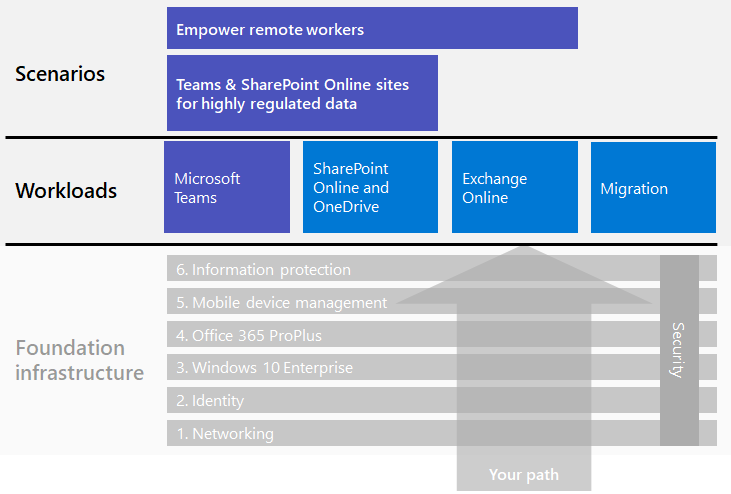
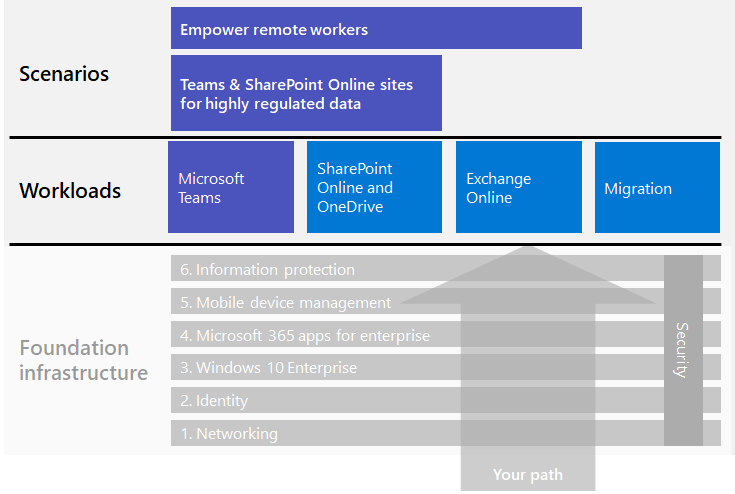
commit translated contents

diff --git a/microsoft-365/compliance/microsoft-365-compliance-center.md b/microsoft-365/compliance/microsoft-365-compliance-center.md
@@ -11,12 +11,12 @@ ms.service: o365-seccomp
 localization_priority: Normal
 description: 了解 Microsoft 365 合规性中心，包括它包含的内容、如何获取它以及后续步骤。
 ms.collection: M365-security-compliance
-ms.openlocfilehash: f3718de12666cb317cfab4d85683f9e0de6d0b1b
-ms.sourcegitcommit: 3dd9944a6070a7f35c4bc2b57df397f844c3fe79
+ms.openlocfilehash: f87fcbe2cd40b01a42d20da8e36ee4b1d7d3bbb4
+ms.sourcegitcommit: 2614f8b81b332f8dab461f4f64f3adaa6703e0d6
 ms.translationtype: MT
 ms.contentlocale: zh-CN
-ms.lasthandoff: 02/15/2020
-ms.locfileid: "42071493"
+ms.lasthandoff: 04/21/2020
+ms.locfileid: "43637954"
 ---
 # <a name="microsoft-365-compliance-center"></a>Microsoft 365 合规中心
 
@@ -62,7 +62,7 @@ ms.locfileid: "42071493"
 
 |  |  |
 |---------|---------|
-|![Microsoft 365 合规性中心中的导航](../media/m365-compliance-center-leftnav.png)  | 选择 "**主页**" 以返回 Microsoft 365 合规性中心主页。 <br><br> 选择 "**数据分类**" 部分，以访问[trainable 分类](classifier-getting-started-with.md)器、[敏感信息类型](what-the-sensitive-information-types-look-for.md)、内容和[活动](data-classification-activity-explorer.md)浏览器。 <br/><br/> 选择 "**数据连接器**" 以配置在 Microsoft 365 订阅中导入和存档数据的[连接器](archiving-third-party-data.md)。 <br><br> 转到 "**通知**" 以查看和解决[通知](alert-policies.md) <br/><br/>访问**报告**以查看有关[标签使用和保留](sensitivity-labels.md)的数据[、DLP 策略匹配和替代](view-the-dlp-reports.md)、[共享文件](https://docs.microsoft.com/cloud-app-security/file-filters)、[使用中的第三方应用程序](https://docs.microsoft.com/cloud-app-security/discovered-apps)等。 <br/><br/> 转到 "**策略**" 以设置用于控制数据、管理设备和接收[通知](../security/office-365-security/alerts.md)的策略。 您还可以访问您的[DLP](data-loss-prevention-policies.md)和[保留](retention-policies.md)策略。<br/><br/> 选择管理组织中的哪些用户有权访问 Microsoft 365 合规性中心以查看内容和完成任务的**权限**。 <br/><br/> 使用 "**解决方案**" 部分中的链接可访问组织的合规性解决方案。 具体包括： <br/><br/> [Catalog](microsoft-365-solution-catalog.md) <br> 发现、了解并开始使用适用于您的组织的智能合规性和风险管理解决方案。 <br/><br/> [跟踪](search-the-audit-log-in-security-and-compliance.md) <br> 使用审核日志调查常见支持和合规性问题。 <br/><br/> [内容搜索](search-for-content.md) <br> 使用内容搜索在 Exchange 邮箱、SharePoint 网站中的文档和 OneDrive 位置以及 Microsoft 团队和 Skype for business 中的即时消息对话中快速查找电子邮件。 <br/><br/> [沟通合规性](communication-compliance.md) <br> 通过自动捕获不适当的邮件、调查可能的策略违规和采取补救措施来最大限度地减少通信风险。 <br/><br/> [数据调查](overview-data-investigations.md) <br/> 跨内容位置搜索以识别 Microsoft 365 中的敏感数据、恶意数据或误放数据，以便您可以调查和修正任何事件，如 data 外泄。 <br/><br/> [数据丢失保护](data-loss-prevention-policies.md) <br> 检测在整个组织、云中和设备中使用和共享的敏感内容，并帮助防止意外的数据丢失。 <br/><br/> [数据主体请求](manage-gdpr-data-subject-requests-with-the-dsr-case-tool.md) <br> 查找和导出用户的个人数据，以帮助您响应常规数据保护法规（GDPR）的数据主体请求。 <br/><br/> [电子数据展示](overview-ediscovery-20.md) <br> 展开此部分可使用核心和高级电子数据展示来保留、收集、检查、分析和导出对组织内部和外部调查做出响应的内容。 <br/><br/> [信息治理](manage-information-governance.md) <br> 使用用于导入、存储和分类业务关键数据的功能管理内容生命周期，以便您可以保留所需的内容并删除不需要的内容。 <br/><br/> [信息保护](protect-information.md) <br> 跨组织的整个生命周期发现、分类和保护敏感和业务关键型内容。 <br/><br/> [内幕风险管理](insider-risk-management.md) <br> 检测整个组织中有风险的活动，以帮助您快速识别、调查和采取对内幕风险和威胁的操作。 <br/><br/> [记录管理](records-management.md) <br> 自动化并简化组织中的法规、法律和业务关键型记录的保留计划。
+|![Microsoft 365 合规性中心中的导航](../media/m365-compliance-center-leftnav.png)  | 选择 "**主页**" 以返回 Microsoft 365 合规性中心主页。 <br><br> 选择 "**数据分类**" 部分，以访问[trainable 分类](classifier-getting-started-with.md)器、[敏感信息类型](what-the-sensitive-information-types-look-for.md)、内容和[活动](data-classification-activity-explorer.md)浏览器。 <br/><br/> 选择 "**数据连接器**" 以配置在 Microsoft 365 订阅中导入和存档数据的[连接器](archiving-third-party-data.md)。 <br><br> 转到 "**通知**" 以查看和解决[通知](alert-policies.md) <br/><br/>访问**报告**以查看有关[标签使用和保留](sensitivity-labels.md)的数据[、DLP 策略匹配和替代](view-the-dlp-reports.md)、[共享文件](https://docs.microsoft.com/cloud-app-security/file-filters)、[使用中的第三方应用程序](https://docs.microsoft.com/cloud-app-security/discovered-apps)等。 <br/><br/> 转到 "**策略**" 以设置用于控制数据、管理设备和接收[通知](../security/office-365-security/alerts.md)的策略。 您还可以访问您的[DLP](data-loss-prevention-policies.md)和[保留](retention-policies.md)策略。<br/><br/> 选择管理组织中的哪些用户有权访问 Microsoft 365 合规性中心以查看内容和完成任务的**权限**。 <br/><br/> 使用 "**解决方案**" 部分中的链接可访问组织的合规性解决方案。 具体包括： <br/><br/> [Catalog](microsoft-365-solution-catalog.md) <br> 发现、了解并开始使用适用于您的组织的智能合规性和风险管理解决方案。 <br/><br/> [跟踪](search-the-audit-log-in-security-and-compliance.md) <br> 使用审核日志调查常见支持和合规性问题。 <br/><br/> [内容搜索](search-for-content.md) <br> 使用内容搜索在 Exchange 邮箱、SharePoint 网站中的文档和 OneDrive 位置以及 Microsoft 团队和 Skype for business 中的即时消息对话中快速查找电子邮件。 <br/><br/> [通信合规性](communication-compliance.md) <br> 通过自动捕获不适当的邮件、调查可能的策略违规和采取补救措施来最大限度地减少通信风险。 <br/><br/> [数据调查](overview-data-investigations.md) <br/> 跨内容位置搜索以识别 Microsoft 365 中的敏感数据、恶意数据或误放数据，以便您可以调查和修正任何事件，如 data 外泄。 <br/><br/> [数据丢失保护](data-loss-prevention-policies.md) <br> 检测在整个组织、云中和设备中使用和共享的敏感内容，并帮助防止意外的数据丢失。 <br/><br/> [数据主体请求](manage-gdpr-data-subject-requests-with-the-dsr-case-tool.md) <br> 查找和导出用户的个人数据，以帮助您响应常规数据保护法规（GDPR）的数据主体请求。 <br/><br/> [电子数据展示](overview-ediscovery-20.md) <br> 展开此部分可使用核心和高级电子数据展示来保留、收集、检查、分析和导出对组织内部和外部调查做出响应的内容。 <br/><br/> [信息治理](manage-information-governance.md) <br> 使用用于导入、存储和分类业务关键数据的功能管理内容生命周期，以便您可以保留所需的内容并删除不需要的内容。 <br/><br/> [信息保护](protect-information.md) <br> 跨组织的整个生命周期发现、分类和保护敏感和业务关键型内容。 <br/><br/> [内幕风险管理](insider-risk-management.md) <br> 检测整个组织中有风险的活动，以帮助您快速识别、调查和采取对内幕风险和威胁的操作。 <br/><br/> [记录管理](records-management.md) <br> 自动化并简化组织中的法规、法律和业务关键型记录的保留计划。
 
 ## <a name="how-do-i-get-the-compliance-center"></a>如何获取合规性中心？
 
@@ -72,9 +72,9 @@ ms.locfileid: "42071493"
 
 ## <a name="frequently-asked-questions"></a>常见问题解答
 
-**为什么我已进入 Office 365 安全 & 合规中心来完成某些任务，如定义某些策略？**
+**为什么我会转到安全 & 合规中心来完成某些任务，如定义某些策略？**
 
-我们仍在开发 Microsoft 365 合规性中心，我们在未来的几个月中添加了更多的功能和解决方案。 同时，Office 365 安全 & 合规中心（[https://protection.office.com](https://protection.office.com)）中有一些必须完成的任务。 在这些情况下，你将自动转到你可以在其中完成任务的位置，例如创建或编辑监督策略。
+我们仍在开发 Microsoft 365 合规性中心，我们在未来的几个月中添加了更多的功能和解决方案。 同时，在安全 & 合规中心（[https://protection.office.com](https://protection.office.com)）中必须完成一些任务。 在这些情况下，你将自动转到你可以在其中完成任务的位置，例如创建或编辑监督策略。
 
 **为什么我还看不到新的 Microsoft 365 合规中心？**
 
@@ -82,7 +82,7 @@ ms.locfileid: "42071493"
 
 **我的一些合规性功能在 Microsoft 365 合规性中心中不可用。我该怎么办？**
 
-我们仍在向 Microsoft 365 合规性中心添加功能。 如果找不到任何内容（如审核日志搜索），请使用 Office 365 安全 & 合规性[https://protection.office.com](https://protection.office.com)中心（）。 您的配置将以现有的 Office 365 安全 & 合规性中心和自动在新的 Microsoft 365 合规性中心中保存。
+我们仍在向 Microsoft 365 合规性中心添加功能。 如果找不到任何内容（如审核日志搜索），请使用安全 & 合规性[https://protection.office.com](https://protection.office.com)中心（）。 您的配置将在现有安全 & 合规性中心和新的 Microsoft 365 合规性中心自动保存。
 
 若要转到此处，请在 Microsoft 365 合规性中心中，在屏幕左侧的导航窗格中，选择 "**更多资源**"，然后在 " **Office 365 安全性 & 合规性中心**" 下，选择 "**打开**"。
 

diff --git a/microsoft-365/admin/add-users/change-a-user-name-and-email-address.md b/microsoft-365/admin/add-users/change-a-user-name-and-email-address.md
@@ -1,5 +1,5 @@
 ---
-title: 在 Office 365 中更改用户名和电子邮件地址
+title: 更改用户名和电子邮件地址
 f1.keywords:
 - NOCSH
 ms.author: cmcatee
@@ -21,17 +21,17 @@ search.appverid:
 - MET150
 - MOE150
 ms.assetid: fb5ac074-e203-4e1f-9843-b9d1a3e03297
-description: '了解全局管理员可以如何更改用户的 Office 365 电子邮件地址和显示名称。 '
-ms.openlocfilehash: 16dab0f0ac65bccea0e2273e396315a32dd33439
-ms.sourcegitcommit: ca2b58ef8f5be24f09e73620b74a1ffcf2d4c290
+description: '了解全局管理员可以如何更改用户的电子邮件地址和显示名称。 '
+ms.openlocfilehash: 726d1f01203bbaefc529039d3816fb09c892cd90
+ms.sourcegitcommit: 2614f8b81b332f8dab461f4f64f3adaa6703e0d6
 ms.translationtype: HT
 ms.contentlocale: zh-CN
-ms.lasthandoff: 02/24/2020
-ms.locfileid: "42238170"
+ms.lasthandoff: 04/21/2020
+ms.locfileid: "43618736"
 ---
-# <a name="change-a-user-name-and-email-address-in-office-365"></a>在 Office 365 中更改用户名和电子邮件地址
+# <a name="change-a-user-name-and-email-address"></a>更改用户名和电子邮件地址
 
-例如，若用户结婚和更改姓氏，则可能需要更改该用户的 Office 365 电子邮件地址和显示名称。
+例如，若用户结婚和更改姓氏，则可能需要更改该用户的电子邮件地址和显示名称。
 
 ::: moniker range="o365-worldwide"
 
@@ -48,7 +48,7 @@ ms.locfileid: "42238170"
 
 ## <a name="change-a-users-email-address"></a>更改用户的电子邮件地址
 
-必须是 [Office 365 全局管理员](about-admin-roles.md)才能执行这些步骤。 
+必须是[全局管理员](about-admin-roles.md)才能执行这些步骤。 
 
 ::: moniker range="o365-worldwide"
  
@@ -101,7 +101,7 @@ ms.locfileid: "42238170"
     
     **重要提示**：如果从 GoDaddy 或提供管理控制台的另一合作伙伴服务购买 Office 365，则不会看到“设置为主要”选项。请改为登录到 GoDaddy/合作伙伴的管理控制台，设置主要别名。 
     
-    此外，只有 Office 365 全局管理员才能看到此选项。如果没有看到此选项，则表明你不具有更改用户名称和主要电子邮件地址的权限。
+    此外，只有全局管理员才能看到此选项。如果没有看到此选项，则表明你不具有更改用户名称和主要电子邮件地址的权限。
   
 4. 你会看到一个大的黄色警告，提示你将更改用户的登录信息。 依次选择“**保存**”和“**关闭**”。
     
@@ -129,7 +129,7 @@ ms.locfileid: "42238170"
     
     **重要提示**：如果从 GoDaddy 或提供管理控制台的另一合作伙伴服务购买 Office 365，则不会看到“设置为主要”选项。请改为登录到 GoDaddy/合作伙伴的管理控制台，设置主要别名。 
     
-    此外，只有 Office 365 全局管理员才能看到此选项。如果没有看到此选项，则表明你不具有更改用户名称和主要电子邮件地址的权限。
+    此外，只有全局管理员才能看到此选项。如果没有看到此选项，则表明你不具有更改用户名称和主要电子邮件地址的权限。
   
 4. 你会看到一个大的黄色警告，提示你将更改用户的登录信息。 依次选择“**保存**”和“**关闭**”。
     
@@ -157,7 +157,7 @@ ms.locfileid: "42238170"
     
     **重要提示**：如果从 GoDaddy 或提供管理控制台的另一合作伙伴服务购买 Office 365，则不会看到“设置为主要”选项。请改为登录到 GoDaddy/合作伙伴的管理控制台，设置主要别名。 
     
-    此外，只有 Office 365 全局管理员才能看到此选项。如果没有看到此选项，则表明你不具有更改用户名称和主要电子邮件地址的权限。
+    此外，只有全局管理员才能看到此选项。如果没有看到此选项，则表明你不具有更改用户名称和主要电子邮件地址的权限。
   
 4. 你会看到一个大的黄色警告，提示你将更改用户的登录信息。 依次选择“**保存**”和“**关闭**”。
     
@@ -223,22 +223,22 @@ ms.locfileid: "42238170"
 
 ### <a name="a-parameter-cannot-be-found-that-matches-parameter-name-emailaddresses"></a>“找不到与参数名称‘EmailAddresses’匹配的参数”
 
-如果收到错误消息：" **找不到与参数名称 "EmailAddresses" 匹配的参数**"，则表明 Office 365 完成租户或自定义域设置（如果最近添加了一个）所需的时间会更长。设置过程最多需要 4 个小时才能完成。稍等片刻，待设置过程完成后重试。如果问题仍然存在，请致电支持人员，他们会为你执行完全同步。
+如果收到错误消息：“**找不到与参数名称 "EmailAddresses" 匹配的参数**”，则表明完成租户或自定义域设置（如果最近添加了一个）所需的时间会更长。设置过程最多需要 4 个小时才能完成。稍等片刻，待设置过程完成后重试。如果问题仍然存在，请致电支持人员，他们会为你执行完全同步。
   
 ### <a name="were-sorry-the-user-couldnt-be-edited-review-the-user-information-and-try-again"></a>“很抱歉，无法编辑该用户。 请查看用户信息，请查看用户信息并重试”
 
-如果收到错误消息“**很抱歉，无法编辑该用户。请查看用户信息并重试**”， 这意味着你不是 Office 365 全局管理员，不具有更改用户名的权限。 找到企业中的全局管理员，请他们进行更改。
+如果收到错误消息“**很抱歉，无法编辑该用户。请查看用户信息并重试**”， 这意味着你不是全局管理员，不具有更改用户名的权限。 找到企业中的全局管理员，请他们进行更改。
 
 
 ## <a name="what-to-do-with-old-email-addresses"></a>对旧电子邮件地址的处理
 
 用户先前的主要电子邮件地址将作为其他电子邮件地址保留。**强烈建议不要删除旧电子邮件地址。**
   
-某些联系人可能会继续向旧的电子邮件地址发送电子邮件，删除此地址可能导致 NDR 故障。Office 365 会自动将邮件路由到新地址。此外，不要重复使用旧的 SMTP 电子邮件地址和将其应用到新帐户。这也会导致 NDR 故障或传递到计划外的邮箱。
+某些联系人可能会继续向旧的电子邮件地址发送电子邮件，删除此地址可能导致 NDR 故障。Microsoft 会自动将邮件路由到新地址。此外，不要重复使用旧的 SMTP 电子邮件地址和将其应用到新帐户。这也会导致 NDR 故障或传递到计划外的邮箱。
    
 ## <a name="what-if-the-persons-offline-address-book-wont-sync-with-the-global-address-list"></a>用户的脱机通讯簿未与全局地址列表同步怎么办？
 
-如果用户使用 Exchange Online，或其 Office 365 帐户与组织的本地 Exchange 环境链接，则在你尝试更改用户名和电子邮件地址时可能会看到以下错误："此用户已与你的本地 Active Directory 同步。某些详细信息仅可通过本地 Active Directory 进行编辑。"
+如果用户使用 Exchange Online，或其帐户与组织的本地 Exchange 环境链接，则在你尝试更改用户名和电子邮件地址时可能会看到以下错误："此用户已与你的本地 Active Directory 同步。某些详细信息仅可通过本地 Active Directory 进行编辑。"
   
 这是由 Microsoft 联机电子邮件路由地址 (MOERA) 引起的。MOERA 通过 Active Directory 中的用户  _userPrincipalName_ 属性进行构造，其在初始同步期间自动分配到云帐户，且创建后不可在 Office 365 中修改或删除。随后，可在 Active Directory 中更改用户名，但这不会更改 MOERA，并且可能在全局地址列表中显示新更改的名称方面遇到问题。 
   

diff --git a/microsoft-365/enterprise/password-writeback-m365-ent-test-environment.md b/microsoft-365/enterprise/password-writeback-m365-ent-test-environment.md
@@ -18,12 +18,12 @@ ms.custom:
 - Ent_TLGs
 ms.assetid: ''
 description: 摘要：配置 Microsoft 365 测试环境的密码写回。
-ms.openlocfilehash: 8ff6c8c7d2eae735a2572bae1c437502602cfd0b
-ms.sourcegitcommit: 93e6bf1b541e22129f8c443051375d0ef1374150
+ms.openlocfilehash: cc71b581730001d8dc021b5074e300fed636e3d9
+ms.sourcegitcommit: 2614f8b81b332f8dab461f4f64f3adaa6703e0d6
 ms.translationtype: HT
 ms.contentlocale: zh-CN
-ms.lasthandoff: 03/13/2020
-ms.locfileid: "42633080"
+ms.lasthandoff: 04/21/2020
+ms.locfileid: "43632871"
 ---
 # <a name="password-writeback-for-your-microsoft-365-test-environment"></a>Microsoft 365 测试环境的密码写回
 
@@ -35,8 +35,8 @@ ms.locfileid: "42633080"
 
 此设置包含两个阶段：
 
-1.  创建采用密码哈希同步的 Microsoft 365 模拟企业测试环境。
-2.  为 TESTLAB AD DS 域启用密码写回。
+1.    创建采用密码哈希同步的 Microsoft 365 模拟企业测试环境。
+2.    为 TESTLAB AD DS 域启用密码写回。
     
 ![Microsoft 云测试实验室指南](../media/m365-enterprise-test-lab-guides/cloud-tlg-icon.png) 
     
@@ -53,7 +53,7 @@ ms.locfileid: "42633080"
   
 - Microsoft 365 E5 或 Office 365 E5 试用版或付费版订阅。
 - 连接到 Internet 的简化的组织 Intranet，包含 Azure 虚拟网络子网中的 DC1、APP1 和 CLIENT1 虚拟机。 
-- 在 APP1 上运行的 Azure AD Connect，用于将 TESTLAB AD DS 域同步到 Microsoft 365 或 Office 365 订阅的 Azure AD 租户。
+- 在 APP1 上运行的 Azure AD Connect，用于将 TESTLAB AD DS 域同步到 Microsoft 365 订阅的 Azure AD 租户。
 
 ## <a name="phase-2-enable-password-writeback-for-the-testlab-ad-ds-domain"></a>阶段 2：为 TESTLAB AD DS 域启用密码写回
 
@@ -130,7 +130,7 @@ ms.locfileid: "42633080"
 
 - 包含已注册 DNS 域 TESTLAB.\<你的域名> 的 Microsoft 365 E5 或 Office 365 E5 试用订阅或付费订阅。
 - 连接到 Internet 的简化的组织 Intranet，包含 Azure 虚拟网络子网中的 DC1、APP1 和 CLIENT1 虚拟机。 
-- 在 APP1 上运行的 Azure AD Connect，用于将 Azure AD 租户中的帐户和组列表从 Microsoft 365 或 Office 365 订阅同步到 TESTLAB AD DS 域。 
+- 在 APP1 上运行的 Azure AD Connect，用于将 Azure AD 租户中的帐户和组列表从 Microsoft 365 订阅同步到 TESTLAB AD DS 域。 
 - 已启用密码写回，因此用户可以通过 Azure AD 更改其密码，而无需连接到简化的 Intranet。
 
 有关在生产中配置密码写回的信息和相关链接，请参阅“标识”阶段中的[简化密码更新](identity-add-user-accounts.md#identity-pw-writeback)步骤。

diff --git a/microsoft-365/compliance/configure-edge-to-export-search-results.md b/microsoft-365/compliance/configure-edge-to-export-search-results.md
@@ -1,5 +1,5 @@
 ---
-title: 在 Microsoft Edge 中使用 Office 365 电子数据展示导出工具
+title: 在 Microsoft Edge 中使用电子数据展示导出工具
 f1.keywords:
 - NOCSH
 ms.author: markjjo
@@ -12,16 +12,16 @@ search.appverid:
 - MOE150
 - MET150
 description: 您必须启用 ClickOnce 支持，才能使用 Microsoft Edge 的最新版本从 "安全与合规中心" 中的内容搜索和电子数据展示下载搜索结果。
-ms.openlocfilehash: 80924b124521b24ffabf1e0273802265cd715500
-ms.sourcegitcommit: 01ead889086ecc7dcf5d10244bcf67c5a33c8114
+ms.openlocfilehash: c48e3fb04747306693364a2cdbc6f18047a0fd9e
+ms.sourcegitcommit: 2614f8b81b332f8dab461f4f64f3adaa6703e0d6
 ms.translationtype: MT
 ms.contentlocale: zh-CN
-ms.lasthandoff: 03/17/2020
-ms.locfileid: "42710341"
+ms.lasthandoff: 04/21/2020
+ms.locfileid: "43632377"
 ---
-# <a name="use-the-office-365-ediscovery-export-tool-in-microsoft-edge"></a>在 Microsoft Edge 中使用 Office 365 电子数据展示导出工具
+# <a name="use-the-ediscovery-export-tool-in-microsoft-edge"></a>在 Microsoft Edge 中使用电子数据展示导出工具
 
-由于最近对 Microsoft Edge 版本所做的更改，ClickOnce 支持在默认情况下不再启用。 若要继续使用 Microsoft Office 365 电子数据展示导出工具下载内容搜索或电子数据展示搜索结果，您需要使用[Microsoft Internet Explorer](https://support.microsoft.com/help/17621/internet-explorer-downloads)或在最新版本的 microsoft Edge 中启用 ClickOnce 支持。
+由于最近对 Microsoft Edge 版本所做的更改，ClickOnce 支持在默认情况下不再启用。 若要继续使用电子数据展示导出工具下载内容搜索或电子数据展示搜索结果，您需要使用[Microsoft Internet Explorer](https://support.microsoft.com/help/17621/internet-explorer-downloads)或在最新版本的 microsoft Edge 中启用 ClickOnce 支持。
 
 ## <a name="enable-clickonce-support-in-microsoft-edge"></a>在 Microsoft Edge 中启用 ClickOnce 支持
 
@@ -49,7 +49,7 @@ ms.locfileid: "42710341"
 
    ![单击 "打开" 以启动电子数据展示导出工具](../media/ClickOnceimage4.png)
 
-   如果未安装 Microsoft Office 365 电子数据展示导出工具，则系统会提示您提供安全警告， 
+   如果未安装电子数据展示导出工具，则系统会提示您提供安全警告， 
 
    ![单击 "安装" 以安装电子数据展示导出工具](../media/ClickOnceimage5.png)
 

diff --git a/microsoft-365/enterprise/infoprotect-define-sec-infoprotect-levels.md b/microsoft-365/enterprise/infoprotect-define-sec-infoprotect-levels.md
@@ -15,12 +15,12 @@ ms.collection:
 - Strat_O365_Enterprise
 ms.custom: ''
 description: 了解并为组织配置安全和信息保护级别。
-ms.openlocfilehash: d3ba5f490b7aa80c9149a0451059914c78b8f2f1
-ms.sourcegitcommit: 3dd9944a6070a7f35c4bc2b57df397f844c3fe79
+ms.openlocfilehash: 0fa3e9fa11070ea505752d781ecdd21b344c8222
+ms.sourcegitcommit: 2614f8b81b332f8dab461f4f64f3adaa6703e0d6
 ms.translationtype: HT
 ms.contentlocale: zh-CN
-ms.lasthandoff: 02/15/2020
-ms.locfileid: "42067209"
+ms.lasthandoff: 04/21/2020
+ms.locfileid: "43636960"
 ---
 # <a name="step-1-define-security-and-information-protection-levels"></a>步骤 1：定义安全和信息保护级别
 
@@ -33,7 +33,7 @@ ms.locfileid: "42067209"
 虽然可以定义自己的安全级别而且内部可能已设置了一些，但 Microsoft 建议制定至少使用三个不同级别的、可加以应用的安全和保护计划。 下面是一个可帮助你开始的列表： 
 
 - **** 基线：这是用于保护数据以及访问数据的标识和设备的最低标准。你可以按照基线安全和保护建议提供强的默认保护，以满足许多组织或其部门的需要。
-- **** 敏感：这是对数据子集的额外保护，必须高于基线级别。你可以在 Office 365 环境中将此提升的保护应用于特定数据集。此外，Microsoft 还建议将敏感安全级别应用到访问敏感数据的标识和设备。
+- **敏感：** 这是对数据子集的额外保护，必须高于基线级别。你可以在 Microsoft 365 环境中将此提升的保护应用于特定数据集。此外，Microsoft 还建议将敏感安全级别应用到访问敏感数据的标识和设备。
 - **** 高度管控：这是组织的最高保护级别，通常是高度机密的、视为知识产权或商业机密的小量数据，或必须遵循严格安全规定的数据。Microsoft 365 企业版具有相关功能，可帮助组织满足这些高安全要求，包括对标识和设备的同等保护。
 
 有关详细信息，请参阅[三层保护](microsoft-365-policies-configurations.md#three-tiers-of-protection)。

diff --git a/microsoft-365/admin/misc/password-policy-recommendations.md b/microsoft-365/admin/misc/password-policy-recommendations.md
@@ -1,5 +1,5 @@
 ---
-title: Office 365 密码策略建议
+title: 密码策略建议
 f1.keywords:
 - CSH
 ms.author: kwekua
@@ -18,18 +18,18 @@ search.appverid:
 - MOE150
 ms.assetid: 9fa2539a-2211-41fd-85a0-bc37b9619ca4
 description: 了解如何加强组织对密码攻击的防护，学习应如何禁用常见密码并实现基于风险的多重身份验证。
-ms.openlocfilehash: 74f78b6abcc3e3aa7eb3c18c858afcd8e916d432
-ms.sourcegitcommit: d767c288ae34431fb046f4cfe36cec485881385f
+ms.openlocfilehash: eff22b5591893ea10f8e04e8e7f470e8a0bf9079
+ms.sourcegitcommit: 2614f8b81b332f8dab461f4f64f3adaa6703e0d6
 ms.translationtype: HT
 ms.contentlocale: zh-CN
-ms.lasthandoff: 04/15/2020
-ms.locfileid: "43516919"
+ms.lasthandoff: 04/21/2020
+ms.locfileid: "43627820"
 ---
-# <a name="password-policy-recommendations-for-office-365"></a>Office 365 密码策略建议
+# <a name="password-policy-recommendations"></a>密码策略建议
  
-作为 Office 365 组织的管理员，你负责为组织内部用户设置密码策略。 设置密码策略可能很复杂且令人困惑，因而本文提供了加强组织对密码攻击的防护的建议。
+作为组织的管理员，你负责为组织内部用户设置密码策略。 设置密码策略可能很复杂且令人困惑，因而本文提供了加强组织对密码攻击的防护的建议。
   
-要决定 Office 365 密码在你组织中过期的频率，请参阅[设置 Office 365 的密码过期策略](../manage/set-password-expiration-policy.md)。
+要决定 Microsoft 365 密码在你组织中过期的频率，请参阅[设置 Microsoft 365 的密码过期策略](../manage/set-password-expiration-policy.md)。
   
 ## <a name="understanding-password-recommendations"></a>了解密码建议
 

diff --git a/microsoft-365/compliance/define-case-and-tenant-settings-in-advanced-ediscovery.md b/microsoft-365/compliance/define-case-and-tenant-settings-in-advanced-ediscovery.md
@@ -1,5 +1,5 @@
 ---
-title: 在 Office 365 高级电子数据展示中定义大小写和租户设置
+title: 在高级电子数据展示中定义大小写和租户设置
 f1.keywords:
 - NOCSH
 ms.author: chrfox
@@ -14,13 +14,13 @@ search.appverid:
 - MOE150
 - MET150
 ms.assetid: 383809de-7f5e-4a1d-9098-c525f67b7a9a
-description: '了解您可以在 Office 365 高级电子数据展示中的事例级别定义的标签、跨模块和租户设置。  '
-ms.openlocfilehash: 3f206feaa48f13db48552fb7d1be1445609edeae
-ms.sourcegitcommit: e741930c41abcde61add22d4b773dbf171ed72ac
+description: '了解可以在高级电子数据展示中的事例级别定义的标签、跨模块和租户设置。  '
+ms.openlocfilehash: b4092c7fd60b9ae82e4f97edcfa7f4aaf60ac622
+ms.sourcegitcommit: 2614f8b81b332f8dab461f4f64f3adaa6703e0d6
 ms.translationtype: MT
 ms.contentlocale: zh-CN
-ms.lasthandoff: 03/07/2020
-ms.locfileid: "42556940"
+ms.lasthandoff: 04/21/2020
+ms.locfileid: "43630559"
 ---
 # <a name="define-case-and-tenant-settings-in-advanced-ediscovery-classic"></a>在高级电子数据展示中定义大小写和租户设置（经典）
 
